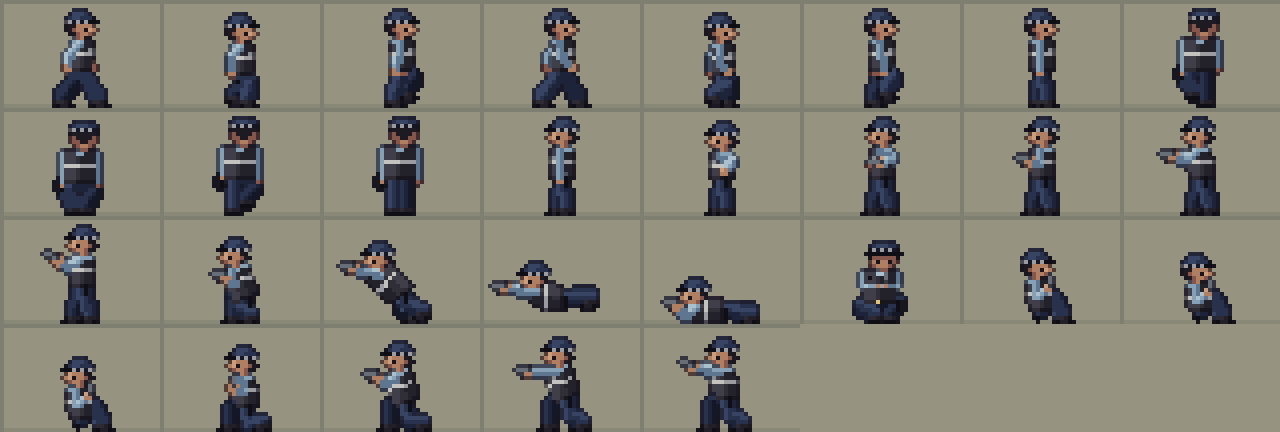
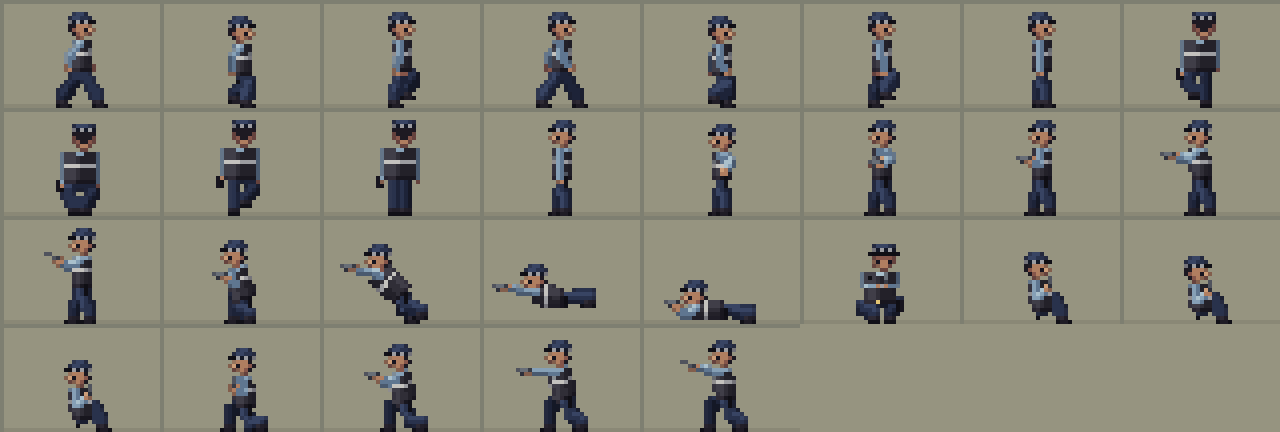
Edge characters like the furniture instead of outlining them
The cast and the officer had a dark ring drawn outside their silhouette,
all round, which made them look like cartoon stickers on the scene. The
furniture instead darkens its own outermost pixels on the sides and
bottom. Characters now do the same (PERSON_EDGE in people.ts; the
treatments live in edges.ts). The four options, rendered in the bank's
own lighting, are compared in docs/pixel-art/examples/character-edges.png.

Claude-Session: https://claude.ai/code/session_01TV8pAVU3G82quQrWzmJDEn

diff --git a/src/art/bank/people.ts b/src/art/bank/people.ts
@@ -1,5 +1,6 @@
 import { PAL, deepen, mix, type Ramp } from '../palette';
 import { PixelBitmap } from '../PixelBitmap';
+import { inner, type Edge } from './edges';
 
 /** People are 16x24: about four heads tall, feet on the bottom row, so one stands on a tile and overlaps the row above. */
 export const PERSON_WIDTH = 16;
@@ -28,13 +29,20 @@ export interface PersonSpec {
     beard?: boolean;
 }
 
-const H = { hair: 1, face: 0.95, torso: 0.8, arm: 0.85, legs: 0.6, shoes: 0.35, outline: 0.15 };
+const H = { hair: 1, face: 0.95, torso: 0.8, arm: 0.85, legs: 0.6, shoes: 0.35 };
+
+/**
+ * How the cast's silhouettes are edged: the same inner edge as the furniture, so people and props read as one world.
+ * A dark ring outside the figure made them look like stickers on the scene (compared in
+ * `docs/pixel-art/examples/character-edges.png`).
+ */
+export const PERSON_EDGE: Edge = inner(0.3);
 
 /**
  * Draws one person facing the camera (`front`) or away from it (`back`). Clothes are shaded for light from above and
- * slightly left: shoulders take the light, the right side and the arms sit a step darker. A sel-out outline follows.
+ * slightly left: shoulders take the light, the right side and the arms sit a step darker. `PERSON_EDGE` edges it.
  */
-export function person(spec: PersonSpec, facing: 'front' | 'back'): PixelBitmap {
+export function person(spec: PersonSpec, facing: 'front' | 'back', edge: Edge = PERSON_EDGE): PixelBitmap {
     const b = new PixelBitmap(PERSON_WIDTH, PERSON_HEIGHT);
     const s = spec.short ?? 0;
     const top = 1 + s;
@@ -86,7 +94,7 @@ export function person(spec: PersonSpec, facing: 'front' | 'back'): PixelBitmap 
     b.rect(7, top + 5, 2, 1, skin[1]!, H.face);
     drawHead(b, spec, top, front);
     if (spec.carry && spec.carry !== 'none') drawCarry(b, spec.carry, front);
-    selOut(b);
+    edge(b);
     return b;
 }
 
@@ -288,19 +296,6 @@ function drawCarry(b: PixelBitmap, carry: Carry, front: boolean): void {
         case 'none':
             break;
     }
-}
-
-/** Sel-out: an outline one pixel outside the figure, coloured as a deepened version of the pixel it borders. */
-export function selOut(b: PixelBitmap): void {
-    const edge: [number, number, number][] = [];
-    for (let y = 0; y < b.height; y++) for (let x = 0; x < b.width; x++) {
-        if (b.opaque(x, y)) continue;
-        const neighbours = [[x, y + 1], [x, y - 1], [x - 1, y], [x + 1, y]].filter(([nx, ny]) => b.opaque(nx!, ny!));
-        if (!neighbours.length) continue;
-        const [nx, ny] = neighbours[0]!;
-        edge.push([x, y, deepen(b.color(nx!, ny!), 0.62)]);
-    }
-    for (const [x, y, c] of edge) b.set(x, y, c, H.outline);
 }
 
 const skin = PAL.skin, hair = PAL.hair, cloth = PAL.cloth;

diff --git a/src/art/bank/edges.ts b/src/art/bank/edges.ts
@@ -1,0 +1,39 @@
+import { deepen } from '../palette';
+import type { PixelBitmap } from '../PixelBitmap';
+
+/** How a figure's silhouette is set off from what is behind it, applied once to the finished drawing. */
+export type Edge = (b: PixelBitmap) => void;
+
+/** A ring one pixel outside the figure, all round, each pixel a deepened copy of the one it borders: the bold sel-out. */
+export function ring(amount = 0.62, height = 0.15): Edge {
+    return b => {
+        const edge: [number, number, number][] = [];
+        for (let y = 0; y < b.height; y++) for (let x = 0; x < b.width; x++) {
+            if (b.opaque(x, y)) continue;
+            const neighbours = [[x, y + 1], [x, y - 1], [x - 1, y], [x + 1, y]].filter(([nx, ny]) => b.opaque(nx!, ny!));
+            if (!neighbours.length) continue;
+            const [nx, ny] = neighbours[0]!;
+            edge.push([x, y, deepen(b.color(nx!, ny!), amount)]);
+        }
+        for (const [x, y, c] of edge) b.set(x, y, c, height);
+    };
+}
+
+/**
+ * The furniture's edge: the figure's own outermost pixels on its sides and bottom take a darker shade of their colour,
+ * nothing is added outside it and the top stays open to the light. With `shadeOnly` only the right side (away from the
+ * light) and the bottom darken, so the lit side meets the background with no line at all.
+ */
+export function inner(amount = 0.3, shadeOnly = false): Edge {
+    return b => {
+        const edge: [number, number][] = [];
+        for (let y = 0; y < b.height; y++) for (let x = 0; x < b.width; x++) {
+            if (!b.opaque(x, y)) continue;
+            if ((!shadeOnly && !b.opaque(x - 1, y)) || !b.opaque(x + 1, y) || !b.opaque(x, y + 1)) edge.push([x, y]);
+        }
+        for (const [x, y] of edge) b.set(x, y, deepen(b.color(x, y), amount), b.heightAt(x, y));
+    };
+}
+
+/** No edge: the silhouette reads by its values against the floor and its contact shadow alone. */
+export const none: Edge = () => {};

diff --git a/src/art/bank/officer.ts b/src/art/bank/officer.ts
@@ -1,6 +1,7 @@
 import { PAL, type Ramp } from '../palette';
 import { PixelBitmap } from '../PixelBitmap';
-import { selOut } from './people';
+import type { Edge } from './edges';
+import { PERSON_EDGE } from './people';
 
 /**
  * A police officer, animated. Every frame is a pose keyed by hand: where the hips, neck, hands and feet are, measured
@@ -201,8 +202,8 @@ export function muzzle(pose: Pose): Pt {
     return add(pose.hands[0], gun.muzzle);
 }
 
-/** Paints one pose into a frame-sized bitmap, outlined like the rest of the cast. */
-export function drawPose(pose: Pose): PixelBitmap {
+/** Paints one pose into a frame-sized bitmap, edged like the rest of the cast. */
+export function drawPose(pose: Pose, edge: Edge = PERSON_EDGE): PixelBitmap {
     const rig = new Rig();
     const side = pose.facing === 'east' || pose.facing === 'west';
     // Which of the left and right limbs is nearer the camera: drawn last, a step lighter.
@@ -299,7 +300,7 @@ export function drawPose(pose: Pose): PixelBitmap {
     if (!side) arm(order[0]!);
     arm(order[1]!);
     gun();
-    selOut(rig.bitmap);
+    edge(rig.bitmap);
     return rig.bitmap;
 }
 

diff --git a/tests/officer.test.ts b/tests/officer.test.ts
@@ -75,7 +75,7 @@ describe('the preview sequence', () => {
         const bitmap = drawPose(OFFICER_POSES.coverEast);
         let back = Infinity;
         for (let py = 0; py < bitmap.height; py++) for (let px = 0; px < bitmap.width; px++) if (bitmap.opaque(px, py)) back = Math.min(back, px);
-        // The outline around the back is the pixel just east of the boxes.
+        // The back's outermost pixel is the one just east of the sofa.
         expect(x - OFFICER_FRAME.anchorX + back).toBe(COVER.x + COVER.w);
         expect(y).toBeGreaterThan(COVER.y);
         expect(y).toBeLessThan(COVER.y + COVER.d);

diff --git a/src/scenes/officerSequence.ts b/src/scenes/officerSequence.ts
@@ -58,7 +58,7 @@ export const OFFICER_CELS: Cel<OfficerFrame>[] = [
     { frame: 'landWest', ms: 80, step: [-5, 0], cue: 'land' },
     { frame: 'landWest', ms: 150, glide: [-4, 0] },
     // Hands at the sofa: a shuffle back and round, so the back comes to rest against it.
-    { frame: 'turnSouth', ms: 130, step: [-6, 0] },
+    { frame: 'turnSouth', ms: 130, step: [-7, 0] },
     { frame: 'coverEast', ms: 650 },
     { frame: 'coverEastBreath', ms: 350 },
     { frame: 'coverEast', ms: 350 },

diff --git a/docs/pixel-art/animation.md b/docs/pixel-art/animation.md
@@ -461,7 +461,7 @@ and rendering small without anti-aliasing. The equivalent here, with no 3D and n
    measurements drives every frame, as one set of measurements drives every facing of a prop in
    `src/art/bank/van.ts`.
 3. **Compose layers into one bitmap.** Body, then arm, then gun stamped at the hand, in an order that depends on the
-   facing (the gun goes behind the body facing north). Merge before the sel-out outline so it runs continuously over
+   facing (the gun goes behind the body facing north). Merge before the edge (`PERSON_EDGE`) so it runs continuously over
    arm and body. Separate runtime sprites would need their own bake and depth and can open 1 px seams *(medium
    confidence on the practice; the reasons are this project's)*.
 4. **Every colour keeps its height**, so `PixelBitmap.normalMap()` gives each frame its own matching normal map. Give
@@ -666,7 +666,7 @@ start. A plain cut pops the gun and the position. Two ways:
 
 A breathing sub-loop whose length doesn't divide the main loop hides any repetition.
 
-### Palette and outline
+### Palette and edge
 
 From `PAL` in `src/art/palette.ts`, as in `drawPose`:
 
@@ -683,10 +683,11 @@ From `PAL` in `src/art/palette.ts`, as in `drawPose`:
 
 Light falls from above and a little left, as on the rest of the cast: each limb pixel takes the ramp's second-lightest
 step, one lighter on the lit side and one darker on the far side. The **far limb** is the same ramp one step darker
-(`darker: 1`) and is drawn before the body; the near limb is drawn last. The **sel-out** outline (`selOut` from
-`people.ts`) runs once over the finished frame, after the gun, so it follows the arms and gun wherever they leave the
-body. Inside the silhouette there is no outline: an arm across the vest reads by its lighter ramp (sky shirt on
-charcoal) and the height step in the normal map.
+(`darker: 1`) and is drawn before the body; the near limb is drawn last. The **edge** (`PERSON_EDGE`, from `edges.ts`)
+runs once over the finished frame, after the gun: the figure's own outermost pixels on its sides and bottom go a shade
+darker, as on the furniture, so it follows the arms and gun wherever they leave the body without adding a ring around
+them. Inside the silhouette there is no line: an arm across the vest reads by its lighter ramp (sky shirt on charcoal)
+and the height step in the normal map.
 
 ### Key poses
 

diff --git a/docs/design/visual-preview.md b/docs/design/visual-preview.md
@@ -55,7 +55,9 @@ crisp at any zoom and a closer view draws fewer pixels. The camera's middle can 
    dusty boards). The lobby floor is kept calm and mid-valued so the safe-floor overlay stays readable
    on top of it.
 5. **Flat albedo, light from the lamps.** Sprites carry only material detail and a little top-light; the lamps and
-   the normal maps (from per-colour heights) do the shading. Sel-out outlines on figures, never black ones.
+   the normal maps (from per-colour heights) do the shading. Figures are edged like the furniture: their own outermost
+   pixels on the sides and bottom a shade darker (`PERSON_EDGE`), nothing drawn outside the silhouette and never black;
+   a ring around them made them look like cartoon stickers (`docs/pixel-art/examples/character-edges.png`).
 6. **One sun.** It sits low in the south-east, behind the viewer: shafts through the façade glass run up and to the
    left, and everything outdoors casts a shadow the same way.
 7. **Readable first.** Silhouette and value contrast against the floor before detail; a contact shadow under everyone.

diff --git a/docs/pixel-art/PROMPTING.md b/docs/pixel-art/PROMPTING.md
@@ -47,6 +47,8 @@ Example:
 ## Things that went wrong before (avoid)
 
 - Bright saturated colours, thick black outlines and big heads read as a kids' game.
+- Even a coloured outline ring around a figure (sel-out drawn outside it) makes characters look like stickers on a
+  realistic scene. Edge figures the way props are edged, inside the silhouette (`src/art/bank/edges.ts`).
 - Ordered dithering over every gradient makes surfaces noisy.
 - Locking a small palette can push colours to the wrong hue family (green marble went purple); add ramps for each
   material.
